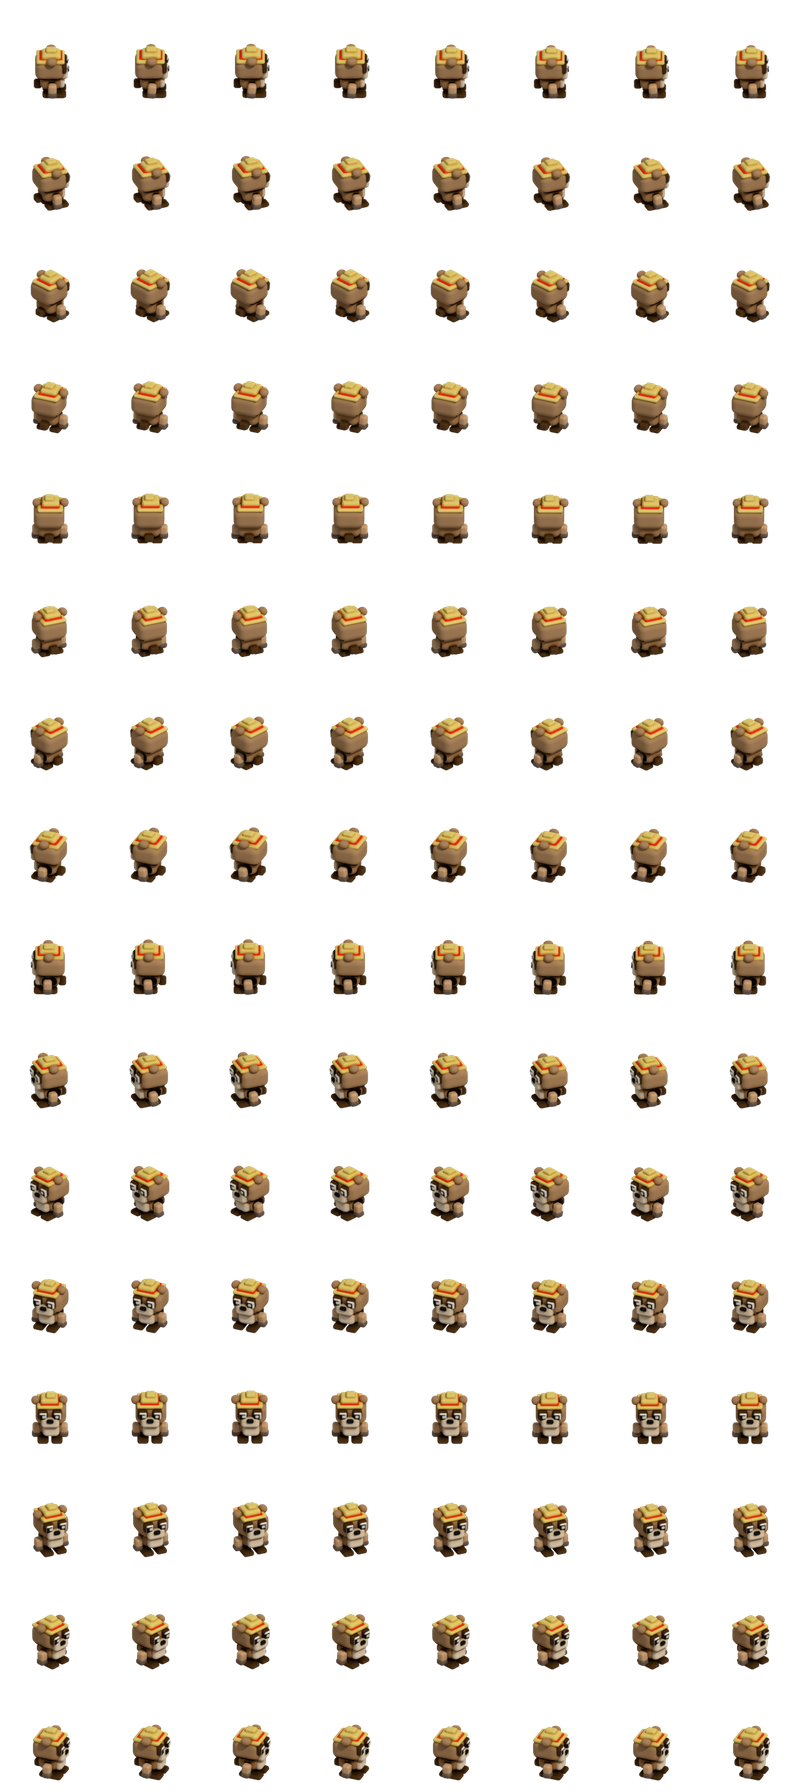
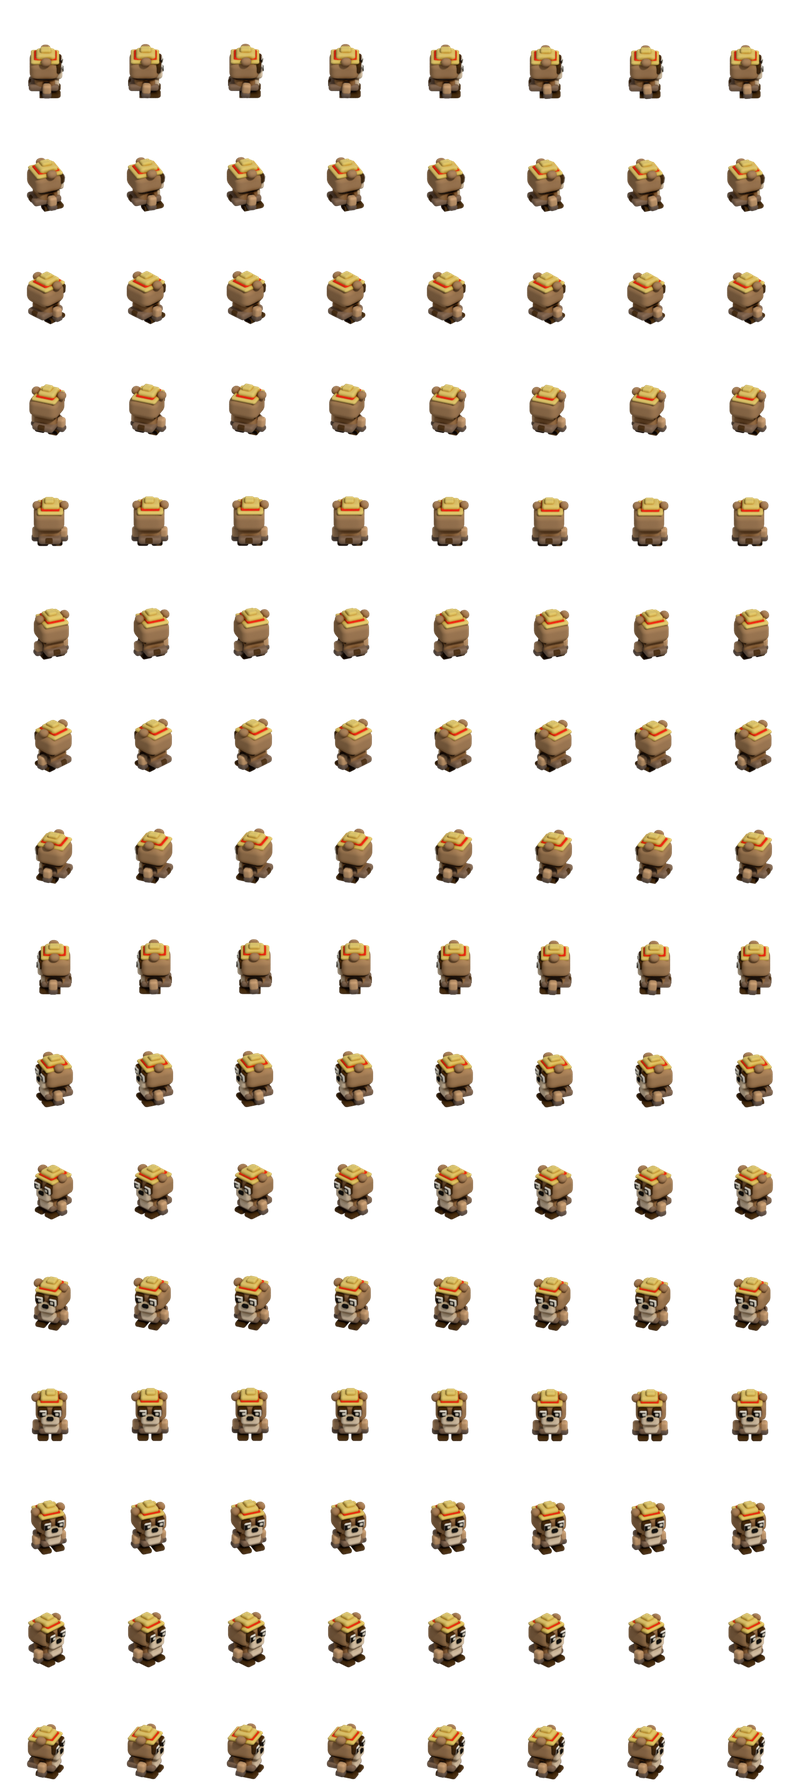
fix(npc/merchant): drop the nub that swung with the leg and close the torso
Claude-Session: https://claude.ai/code/session_01QGjZPSWAcscBHufx8mXpuq

diff --git a/artifacts/vox/merchant/tanuki_sheets.py b/artifacts/vox/merchant/tanuki_sheets.py
@@ -44,6 +44,7 @@ ARM_LEN = 0.56                       # the arm is shortened to this share of its
 SIDE_X = 0.19                        # beyond this |x| (between legs and head) the mesh is an arm
 HEAD_Z = 0.288                       # the head starts here
 ARM_TOP = 0.40                       # the arms (in the T) end below this
+STUB_Y = 0.12                        # behind this (low down, between the legs) is Hunyuan's nub
 LEG_Z = 0.15                         # the legs and feet end here
 HANG = math.radians(82)              # how far the arms are turned down from the T
 
@@ -81,6 +82,8 @@ def build(path, debug=False):
     def region(face):
         x, y, z = face.calc_center_median()
         if z < LEG_Z:
+            if y > STUB_Y:                 # Hunyuan's little dark nub at the back: dropped
+                return None
             return "legR" if x > 0 else "legL"
         if abs(x) > SIDE_X and z < ARM_TOP:
             return "armR" if x > 0 else "armL"
@@ -91,7 +94,9 @@ def build(path, debug=False):
     bm.faces.ensure_lookup_table()
     names = {}
     for f in bm.faces:
-        names.setdefault(region(f), []).append(f.index)
+        r = region(f)
+        if r:
+            names.setdefault(r, []).append(f.index)
     bm.free()
 
     parts = {}
@@ -115,6 +120,7 @@ def build(path, debug=False):
             bpy.data.objects.remove(parts.pop(name), do_unlink=True)
     for s, side in ((1, "R"), (-1, "L")):
         parts["arm" + side] = clean_arm(s, fur, paw)
+    parts["pelvis"] = pelvis(parts["torso"])
     return parts
 
 
@@ -140,6 +146,32 @@ def limb_colours(body):
     bm.free()
     mean = lambda c: tuple(sum(p[i] for p in c) / len(c) for i in range(3))
     return srgb_to_linear((0xc2, 0x96, 0x68)), srgb_to_linear((0x5b, 0x46, 0x36))   # tawny sleeves, dark paws like the feet
+
+
+def pelvis(torso):
+    """A dark rounded plate closing the open bottom of the cut torso, so the swinging legs never
+    show its inside."""
+    import bpy
+
+    vs = [v.co for v in torso.data.vertices]
+    lo = [min(v[a] for v in vs) for a in range(3)]
+    hi = [max(v[a] for v in vs) for a in range(3)]
+    bpy.ops.mesh.primitive_cube_add(size=1, location=((lo[0] + hi[0]) / 2, (lo[1] + hi[1]) / 2, lo[2] + 0.03))
+    o = bpy.context.object
+    o.scale = ((hi[0] - lo[0]) * 0.97, (hi[1] - lo[1]) * 0.97, 0.12)
+    bpy.ops.object.transform_apply(scale=True)
+    bev = o.modifiers.new("b", "BEVEL")
+    bev.width, bev.segments, bev.limit_method = 0.05, 5, "NONE"
+    bpy.ops.object.modifier_apply(modifier="b")
+    bpy.ops.object.shade_smooth()
+    m = bpy.data.materials.new("pelvis")
+    m.use_nodes = True
+    shader = m.node_tree.nodes["Principled BSDF"]
+    shader.inputs["Base Color"].default_value = (*srgb_to_linear((0x7a, 0x5c, 0x42)), 1)
+    shader.inputs["Roughness"].default_value = 0.7
+    o.data.materials.append(m)
+    o.name = "pelvis"
+    return o
 
 
 def srgb_to_linear(rgb):
@@ -224,14 +256,14 @@ def rig(parts):
         joints["hip" + side] = h
         leg.parent = h
         leg.location = -hp
-    for name in ("torso", "head"):
+    for name in ("torso", "head", "pelvis"):
         parts[name].parent = root
     return joints, holder
 
 
 def pose(joints, holder, p):
     """One pose: arms and legs swing about x (forward is −y), the body lifts and breathes."""
-    swing = math.radians(26) * p["swing"]
+    swing = math.radians(15) * p["swing"]
     sway = math.radians(6) * p["sway"]
     for s, side in ((1, "R"), (-1, "L")):
         joints["shoulder" + side].rotation_euler = (swing * -s + sway, 0, 0)
